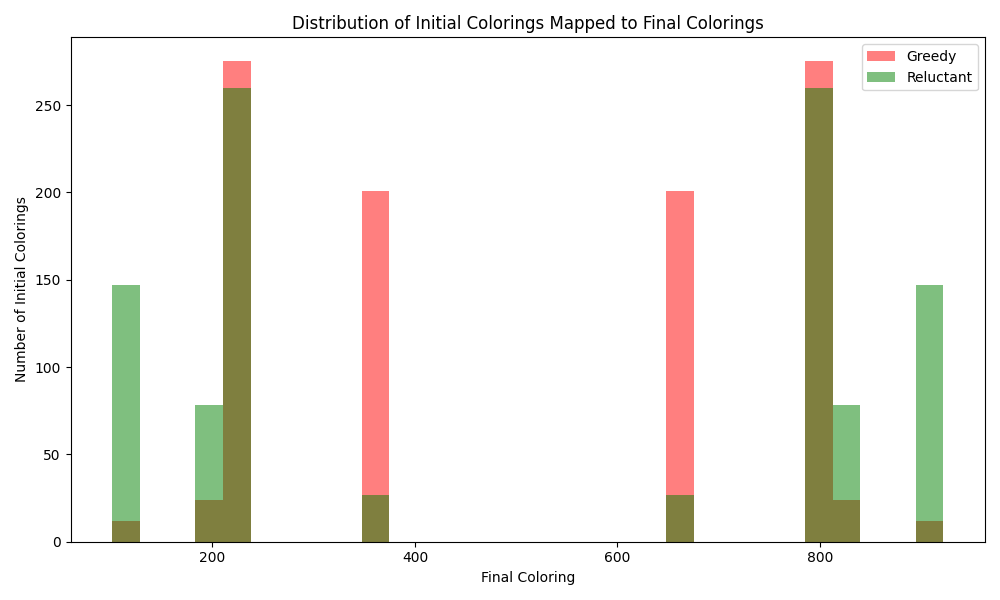
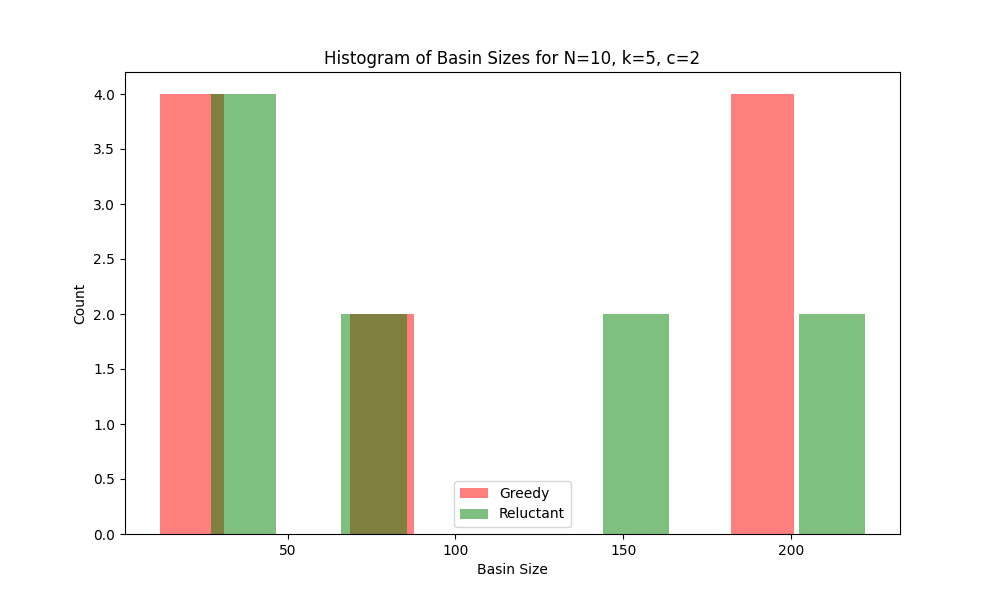
basin histogram plots

diff --git a/src/basin_analysis.py b/src/basin_analysis.py
@@ -132,40 +132,43 @@ def plot_color_mapping(Sg, Sr):
     plt.show()
 
 def plot_hist_color_mapping(Sg, Sr):
-    """
-    Plots histograms showing the distribution of initial colorings mapped to each final coloring
-    using the greedy (red) and reluctant (green) algorithms.
-    
-    Args:
-    - Sg (dict): Dictionary containing initial colorings as keys and final colorings as values for the greedy algorithm.
-    - Sr (dict): Dictionary containing initial colorings as keys and final colorings as values for the reluctant algorithm.
-    - graph_name (str): Name of the graph for saving the plot.
-    """
-    
-    final_colorings_greedy = list(Sg.values())
-    final_colorings_reluctant = list(Sr.values())
-    
-    plt.figure(figsize=(10, 6))
+    Sum_count_greedy = [0] * (2 ** num_nodes)
+    Sum_count_reluctant = [0] * (2 ** num_nodes)
 
-    print(final_colorings_greedy)
+    for key, final_g in Sg.items():
+        Sum_count_greedy[int(final_g)] += 1
+
+    for key, final_r in Sr.items():
+        Sum_count_reluctant[int(final_r)] += 1
+
+    # remove all 0s from the lists
+    Sum_count_greedy = [x for x in Sum_count_greedy if x != 0]
+    Sum_count_reluctant = [x for x in Sum_count_reluctant if x != 0]
+
+    num_bins_greedy = len(Sum_count_greedy)
+    num_bins_reluctant = len(Sum_count_reluctant)
+
+    plt.figure(figsize=(10, 6))
+    print(Sum_count_greedy)
+    print(Sum_count_reluctant)
+    plt.hist(Sum_count_greedy, bins = num_bins_greedy, color='red', alpha=0.5, label='Greedy')
+    plt.hist(Sum_count_reluctant, bins = num_bins_reluctant, color='green', alpha=0.5, label='Reluctant')
     
-    plt.hist(final_colorings_greedy, bins=30, color='red', alpha=0.5, label='Greedy')
-    plt.hist(final_colorings_reluctant, bins=30, color='green', alpha=0.5, label='Reluctant')
-    
-    plt.xlabel('Final Coloring')
-    plt.ylabel('Number of Initial Colorings')
-    plt.title('Distribution of Initial Colorings Mapped to Final Colorings')
-    
+    plt.xlabel("Basin Size")
+    plt.ylabel("Count")
+    plt.title(f"Histogram of Basin Sizes for N={num_nodes}, k={regular_degree}, c={color_set_size}")
     plt.legend()
-    
-    plt.tight_layout()
+
     plt.savefig(f"plots/{graph_name}_basin_hist.png")
+    
     plt.show()
+
+
 
 if __name__ == "__main__":
 
-    num_nodes = 10
-    regular_degree = 5
+    num_nodes = 16
+    regular_degree = 8
     color_set_size = 2
 
     base_path = r"C:\Projects\Heuristics for combinatorial optimisation\results"

diff --git a/src/test.py b/src/test.py
@@ -1,6 +1,6 @@
 import matplotlib.pyplot as plt
 
-data = [0, 1, 0, 2, 0, 4, 1, 4]
+data = [0, 0, 1, 1] # x axis is bin size, histogram height is count of each bin, small value of y axis, small bin size?
 
 plt.hist(data, bins=5, edgecolor='black')  # Adjust bins as needed
 plt.xlabel('Value')
